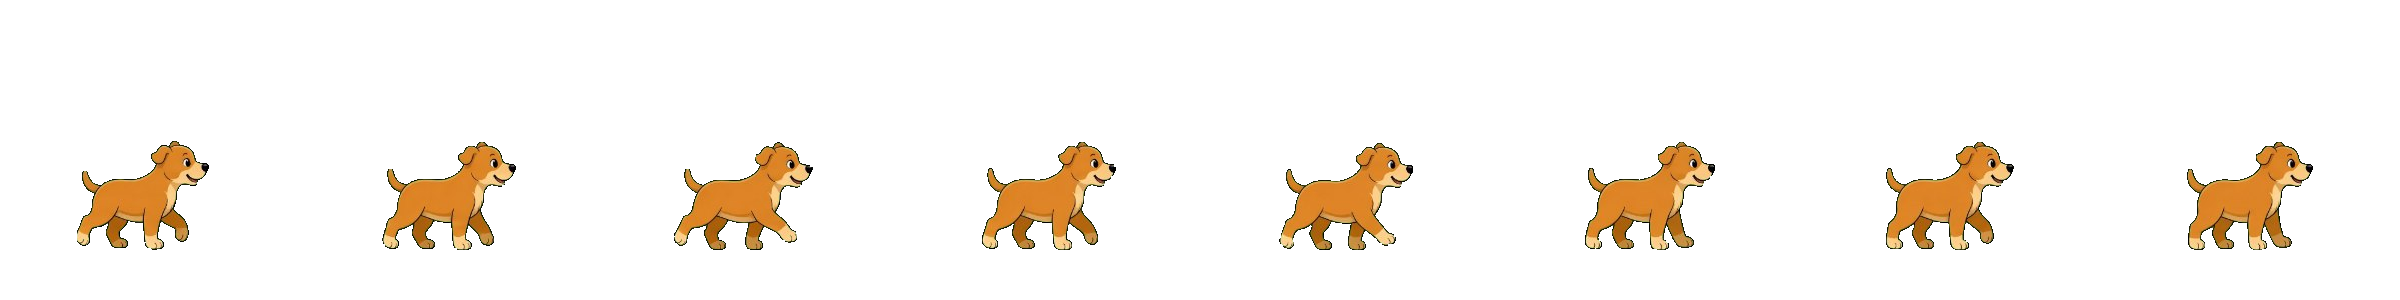
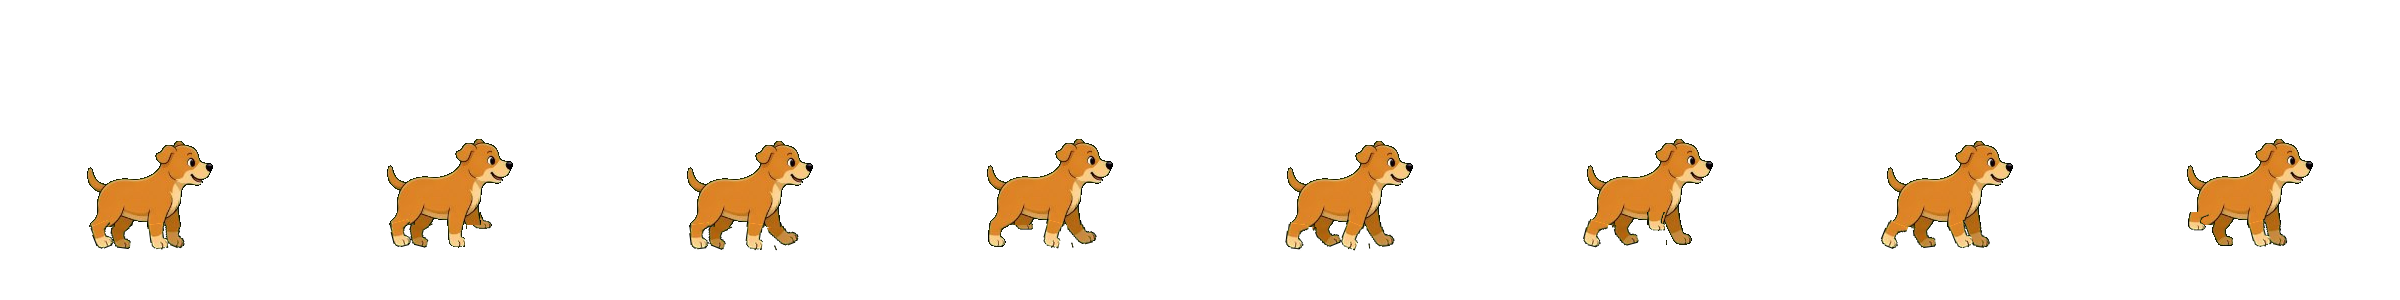
Dog walk rigged in code from one standing frame: legs swing one at a time (4-beat), fixed body, small bob (design/dog_rig.py)

diff --git a/design/dog_rig.py b/design/dog_rig.py
@@ -1,0 +1,85 @@
+"""Walk cycle made in code from ONE standing drawing (owner chose this over more generator attempts).
+
+The lower part of each leg is cut off below CUT and swung around its own top ("knee") in a real
+4-beat walk order: near back, near front, far back, far front, a quarter cycle apart. Each leg spends
+75% of the cycle on the ground sweeping backwards and 25% lifted and swinging forward, so only one
+paw is ever in the air. Output: design/brand/dog-walk.png directly (fixed body position per cell) + frames in dog-src-walk-rig/.
+
+python design/dog_rig.py            (then: python design/dog_art.py --combine jump run land walk frolic)
+"""
+import math
+import subprocess
+import sys
+from pathlib import Path
+
+from PIL import Image
+
+HERE = Path(__file__).resolve().parent
+SRC = HERE / "brand" / "dog-src-walk" / "walk-8.png"   # square stance, all four paws down
+OUT = HERE / "brand" / "dog-src-walk-rig"
+CUT = 86          # rows below this are only legs (4 separate pieces)
+OVERLAP = 4       # leg pieces start this many rows higher so no gap opens at the joint
+FRAMES = 8
+SWING = 22        # degrees each leg swings either side of straight down
+LIFT = 0.30       # how much a lifted leg shortens (bent paw), as a fraction of its length
+RAISE = 9         # px a lifted paw rises off the ground (whole leg piece moves up)
+BOB = 2           # px the body rises while a paw is in the air
+# swing timing: one leg lifts at a time, a quarter cycle apart (near back, near front, far back, far front)
+# leg: (x-range at CUT+1 from the drawing, is_far, phase offset in the cycle)
+LEGS = {"near_back": ((0, 22), False, 0.00), "near_front": ((60, 78), False, 0.25),
+        "far_back": ((24, 46), True, 0.50), "far_front": ((79, 106), True, 0.75)}
+
+
+def leg_pose(t):
+    """t in 0..1 -> (angle deg, lift 0..1). Positive angle = paw swung back. Swing = last 25%."""
+    if t < 0.75:                               # stance: paw on the ground, sweeps front -> back
+        return -SWING + 2 * SWING * (t / 0.75), 0.0
+    s = (t - 0.75) / 0.25                     # swing: lifted, back -> front
+    return SWING - 2 * SWING * s, math.sin(math.pi * s)
+
+
+def build():
+    im = Image.open(SRC).convert("RGBA")
+    w, h = im.size
+    body = im.copy()
+    body.paste((0, 0, 0, 0), (0, CUT, w, h))
+    pieces = {}
+    for name, ((x0, x1), far, ph) in LEGS.items():
+        piece = im.crop((x0, CUT - OVERLAP, x1, h))
+        # keep only this leg inside its own column range (drop bits of neighbouring legs)
+        pieces[name] = (piece, x0, far, ph)
+    OUT.mkdir(parents=True, exist_ok=True)
+    # Fixed placement in every cell, taken from the standing drawing, so the body never slides.
+    sys.path.insert(0, str(HERE))
+    import dog_art
+    fx = dog_art.hind_foot_x(dog_art.clean(im.copy()))
+    ox, oy = round(dog_art.ANCHOR[0] - fx), dog_art.ANCHOR[1] - h
+    C = dog_art.CELL
+    sheet = Image.new("RGBA", (C * FRAMES, C))
+    for f in range(FRAMES):
+        cell = Image.new("RGBA", (C, C))
+        far_l, near_l = [], []
+        up = 0
+        for name, (piece, x0, far, ph) in pieces.items():
+            ang, lift = leg_pose((f / FRAMES + ph) % 1)
+            up = max(up, lift)
+            pw, phh = piece.size
+            leg = piece.resize((pw, max(4, round(phh * (1 - LIFT * lift)))), Image.LANCZOS) if lift else piece
+            big = Image.new("RGBA", (pw * 3, phh * 3))
+            big.paste(leg, (pw, phh))
+            big = big.rotate(-ang, resample=Image.BICUBIC, center=(pw * 1.5, phh))
+            (far_l if far else near_l).append((big, ox + x0 - pw, oy + CUT - OVERLAP - phh - round(RAISE * lift)))
+        bob = round(BOB * up)
+        for big, x, y in far_l:
+            cell.alpha_composite(big, (x, y - bob))
+        cell.alpha_composite(body, (ox, oy - bob))
+        for big, x, y in near_l:
+            cell.alpha_composite(big, (x, y - bob))
+        cell.save(OUT / f"walk-{f + 1}.png")
+        sheet.paste(cell, (f * C, 0))
+    sheet.save(HERE / "brand" / "dog-walk.png", optimize=True)
+    return OUT
+
+
+if __name__ == "__main__":
+    print(build())

diff --git a/AGENTS.md b/AGENTS.md
@@ -40,6 +40,7 @@ tagline "Every heartbeat deserves a home."). Nothing is published yet.
    `python design/dog_art.py --combine jump run` -> `dog-all.png` (cells 0-11 jump, 12-17 run; build
    copies it to `dog.png`). Landing art (owner, 3 frames on one white JPG) in `dog-src-land/`: background + white border flooded out, cut into 3, scaled 0.6, packed as `landart` (anchored on FRONT paws), used as land cells 3-5. Run/skip play run frames over a bounding hop (`STRIDE`). Weakness: the run
    frames are all stretched-leap poses (no gathered-legs frame), so it reads as bounding, not galloping.
+   WALK is code-rigged (`design/dog_rig.py`): legs of standing frame walk-8 cut below y86 and swung one at a time (lateral 4-beat), fixed body, 2px bob; writes dog-walk.png directly, then `dog_art.py --combine jump run land walk frolic`.
    Trot/nap/sit still use jump frames as stand-ins (owner is doing animations one at a time). Old stick-dog sheet: `design/sprite_template.py` (template only).
 3. Small polish: "More…" share button alone on its row; check nav edge on wide screens.
 4. Hosting: Cloudflare (same account as the owner's other sites). The domain stays
